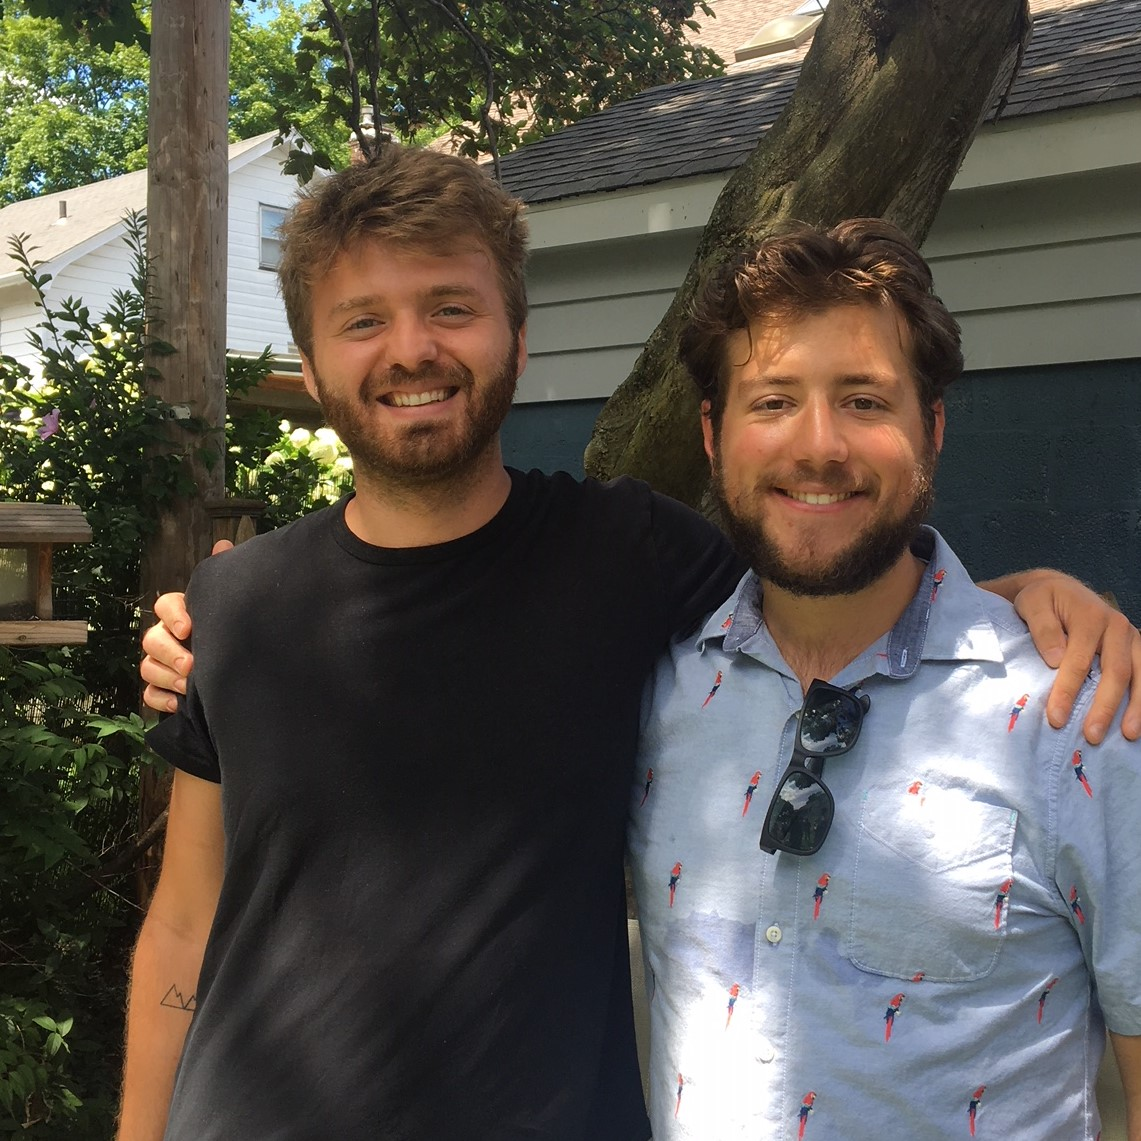
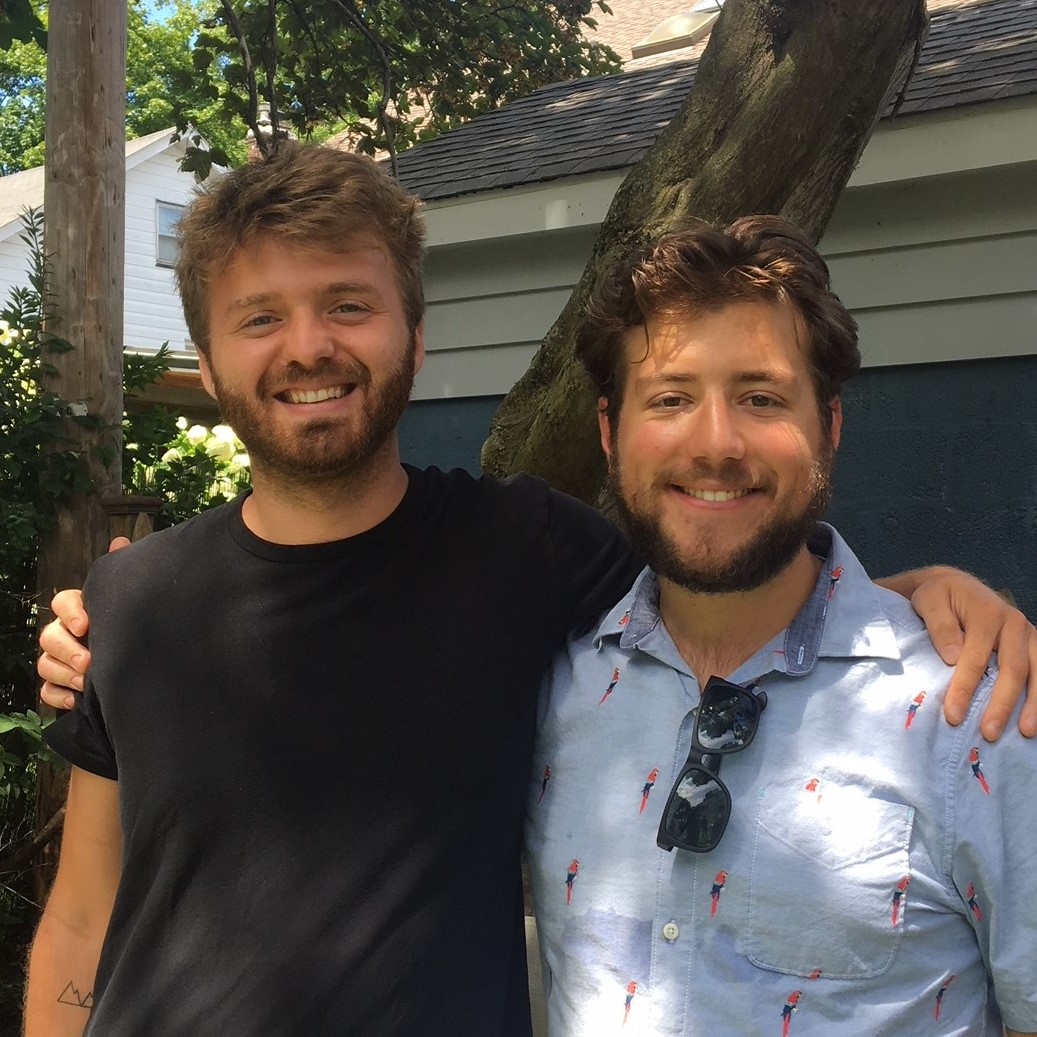
removed borders from schedule page, resized mark's wedding party photo

diff --git a/styles2.css b/styles2.css
@@ -228,8 +228,6 @@ p.price {
     margin: 50px auto;
     text-align: center;
     flex-wrap: wrap;
-    border-bottom: 1px solid #333333;
-    border-top: 1px solid #333333;
     padding-top: 20px;
     padding-bottom: 20px;
 }
